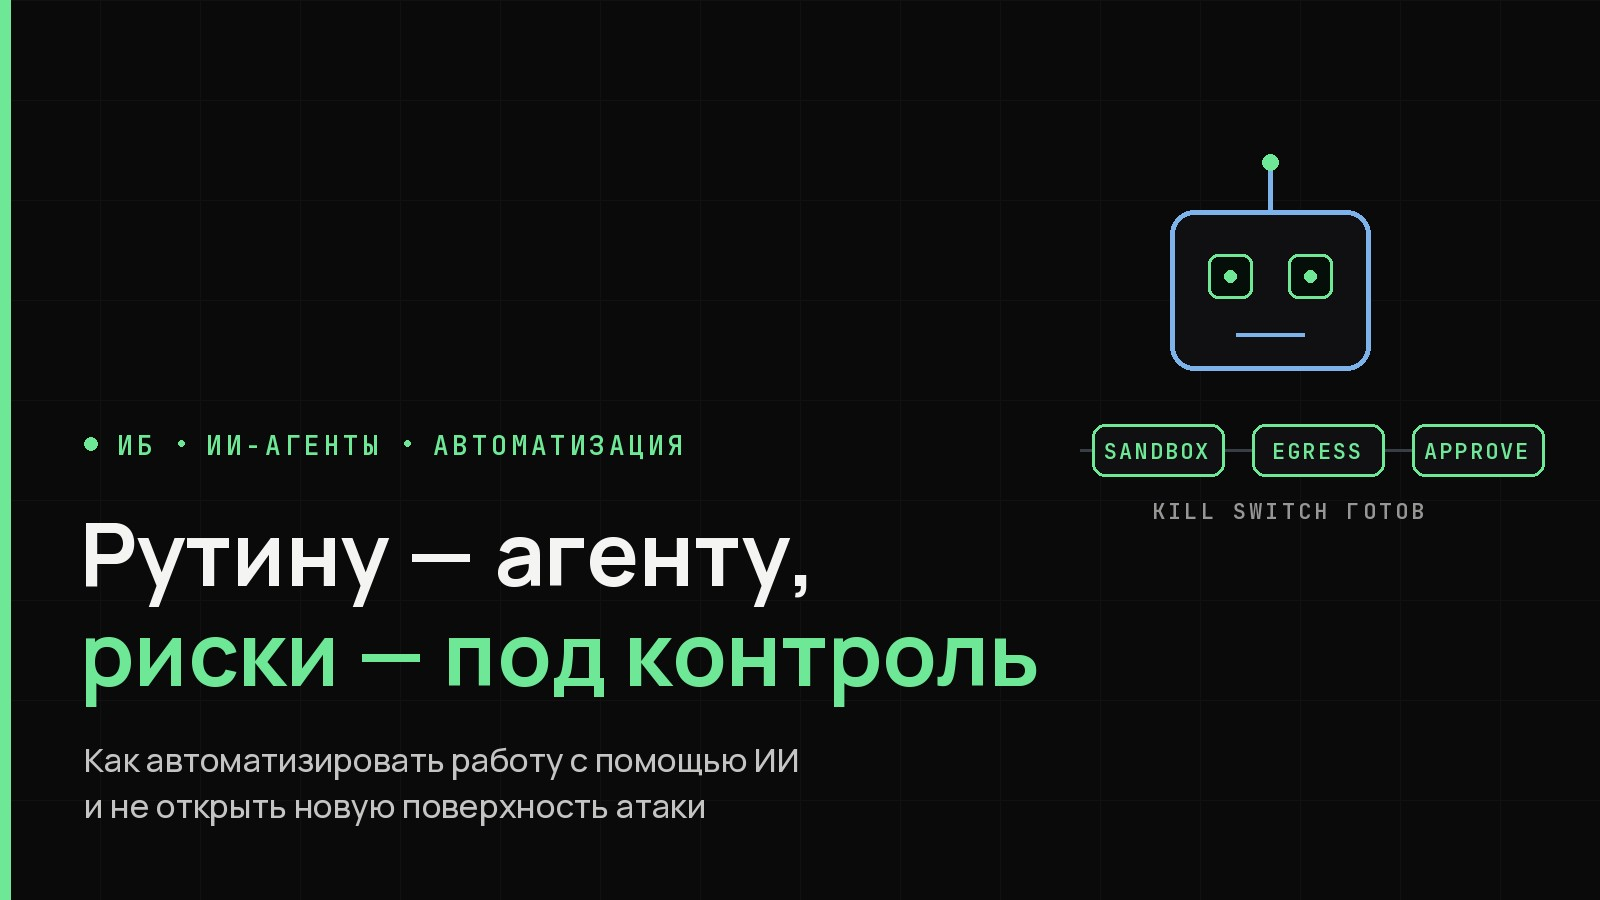
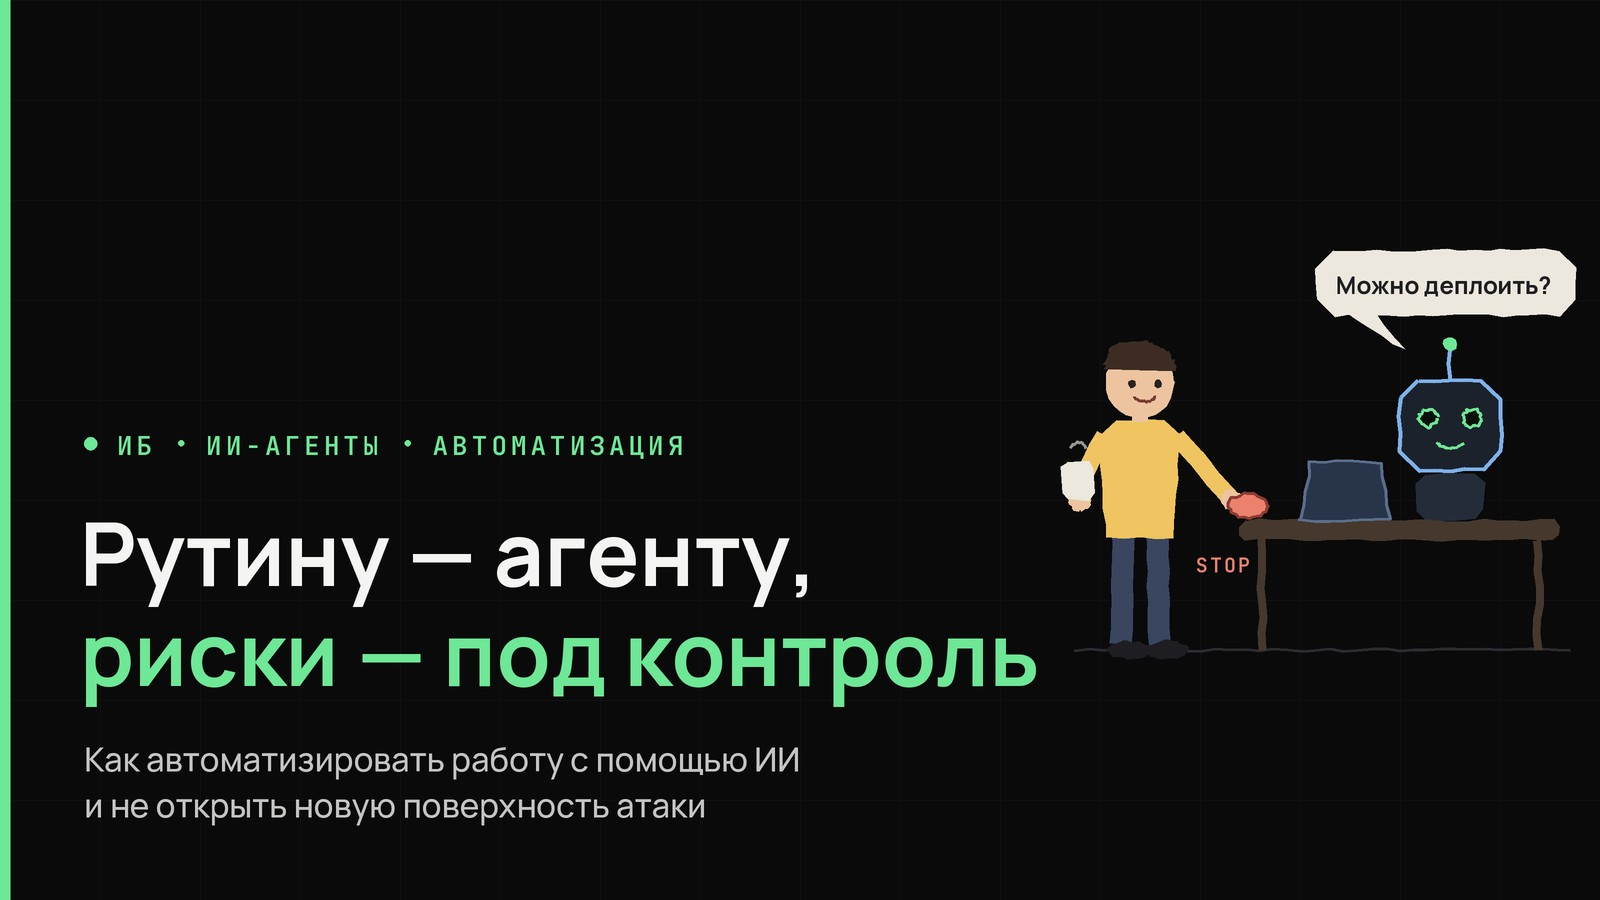
Обложки: рисованные сценки с людьми вместо схем
Семь обложек перерисованы в «ручном» стиле: неровная карандашная
линия, тёплые цвета, персонажи с лицами (тимлид и команда котов,
водитель у колонки, человек с ноутбуком дома, банк и финтех у
щита API, человек и робот у кнопки STOP, читатель отчёта с лупой).
Типографика и фирменные цвета прежние. Генератор лежит в
scripts/make_covers.py и сам готовит TTF из static/fonts.

diff --git a/scripts/make_covers.py b/scripts/make_covers.py
@@ -1,0 +1,390 @@
+#!/usr/bin/env python3
+"""Обложки с рисованными от руки сценками и людьми. Рендер в 2x с даунскейлом."""
+import os, re, math, random, tempfile
+from PIL import Image, ImageDraw, ImageFont
+
+ROOT = os.path.dirname(os.path.dirname(os.path.abspath(__file__)))
+OUT = os.path.join(ROOT, "assets", "images")
+SC = os.path.join(tempfile.gettempdir(), "starodubov-cover-fonts")   # кэш TTF
+S = 2                                   # суперсэмплинг
+
+def prepare_fonts():
+    """Шрифты сайта лежат в woff2; Pillow нужен TTF — конвертируем один раз (pip: fonttools brotli)."""
+    from fontTools.ttLib import TTFont
+    from fontTools.varLib.instancer import instantiateVariableFont
+    os.makedirs(SC, exist_ok=True)
+    src = os.path.join(ROOT, "static", "fonts")
+    for name, (f, w) in {
+        "manrope700cyr": ("manrope-cyrillic-wght-normal.woff2", 700),
+        "manrope700lat": ("manrope-latin-wght-normal.woff2", 700),
+        "manrope500cyr": ("manrope-cyrillic-wght-normal.woff2", 500),
+        "manrope500lat": ("manrope-latin-wght-normal.woff2", 500),
+        "mono600cyr": ("jetbrains-mono-cyrillic-wght-normal.woff2", 600),
+        "mono600lat": ("jetbrains-mono-latin-wght-normal.woff2", 600),
+    }.items():
+        dst = os.path.join(SC, name + ".ttf")
+        if os.path.exists(dst):
+            continue
+        font = TTFont(os.path.join(src, f)); font.flavor = None
+        if "fvar" in font:
+            instantiateVariableFont(font, {"wght": w}, inplace=True)
+        font.save(dst)
+W, H = 1600, 900
+ACC = (110, 231, 150); BLUE = (126, 178, 235); INK = (244, 244, 242)
+MUT = (196, 196, 194); DIM = (150, 150, 148); BG = (10, 10, 11); CARD = (18, 18, 21)
+AMB = (240, 196, 96); CORAL = (236, 130, 110); SKIN = (238, 196, 160); SKIN2 = (196, 140, 104)
+LILAC = (176, 150, 230); PAPER = (236, 232, 222); LINE = (44, 44, 50)
+CYR = re.compile(r'[А-Яа-яЁё]')
+rnd = random.Random(7)
+
+def F(name, size):
+    return ImageFont.truetype(os.path.join(SC, name + ".ttf"), size * S)
+
+class Canvas:
+    def __init__(self):
+        self.img = Image.new("RGB", (W * S, H * S), BG)
+        self.d = ImageDraw.Draw(self.img)
+        for gx in range(0, W, 100):
+            self.d.line([gx * S, 0, gx * S, H * S], fill=(17, 17, 19), width=S)
+        for gy in range(0, H, 100):
+            self.d.line([0, gy * S, W * S, gy * S], fill=(17, 17, 19), width=S)
+        self.d.rectangle([0, 0, 10 * S, H * S], fill=ACC)
+
+    # ---------- текст ----------
+    def text(self, x, y, s, cyr, lat, fill, tracking=0):
+        x *= S; y *= S
+        for ch in s:
+            f = cyr if CYR.match(ch) else lat
+            self.d.text((x, y), ch, font=f, fill=fill)
+            x += self.d.textlength(ch, font=f) + tracking * S
+        return x / S
+
+    def layout(self, badge, t1, t2, s1, s2, head=92):
+        hc, hl = F("manrope700cyr", head), F("manrope700lat", head)
+        sc, sl = F("manrope500cyr", 33), F("manrope500lat", 33)
+        mc, ml = F("mono600cyr", 26), F("mono600lat", 26)
+        X = 84
+        sub2 = H - 76 - 42; sub1 = sub2 - 46
+        ty2 = sub1 - 36 - (head + 20); ty1 = ty2 - (head + 12); by = ty1 - 64
+        self.d.ellipse([X * S, (by + 9) * S, (X + 13) * S, (by + 22) * S], fill=ACC)
+        bx = X + 33
+        for i, part in enumerate(badge):
+            if i:
+                bx += 22
+                self.d.ellipse([bx * S, (by + 12) * S, (bx + 6) * S, (by + 18) * S], fill=ACC)
+                bx += 28
+            bx = self.text(bx, by, part, mc, ml, ACC, tracking=4)
+        self.text(X - 4, ty1, t1, hc, hl, INK)
+        self.text(X - 4, ty2, t2, hc, hl, ACC)
+        self.text(X, sub1, s1, sc, sl, MUT)
+        self.text(X, sub2, s2, sc, sl, MUT)
+
+    # ---------- «карандаш» ----------
+    def _wob(self, pts, amp=1.6, step=14):
+        out = []
+        for (x0, y0), (x1, y1) in zip(pts, pts[1:]):
+            n = max(int(math.hypot(x1 - x0, y1 - y0) // step), 1)
+            for i in range(n):
+                t = i / n
+                out.append(((x0 + (x1 - x0) * t + rnd.uniform(-amp, amp)) * S,
+                            (y0 + (y1 - y0) * t + rnd.uniform(-amp, amp)) * S))
+        out.append((pts[-1][0] * S, pts[-1][1] * S))
+        return out
+
+    def line(self, pts, fill=INK, width=4, amp=1.6):
+        self.d.line(self._wob(pts, amp), fill=fill, width=width * S, joint="curve")
+
+    def poly(self, pts, fill, outline=None, width=4, amp=1.8):
+        p = self._wob(pts + [pts[0]], amp)
+        self.d.polygon(p, fill=fill)
+        if outline:
+            self.d.line(p, fill=outline, width=width * S, joint="curve")
+
+    def blob(self, cx, cy, rx, ry, fill, outline=None, width=4, amp=1.5, n=28, a0=0, a1=360):
+        pts = []
+        for i in range(n + 1):
+            a = math.radians(a0 + (a1 - a0) * i / n)
+            pts.append((cx + rx * math.cos(a) + rnd.uniform(-amp, amp),
+                        cy + ry * math.sin(a) + rnd.uniform(-amp, amp)))
+        p = [(x * S, y * S) for x, y in pts]
+        if fill:
+            self.d.polygon(p, fill=fill)
+        if outline:
+            self.d.line(p, fill=outline, width=width * S, joint="curve")
+
+    def arc(self, cx, cy, rx, ry, a0, a1, fill=INK, width=4, n=16):
+        pts = [(cx + rx * math.cos(math.radians(a0 + (a1 - a0) * i / n)),
+                cy + ry * math.sin(math.radians(a0 + (a1 - a0) * i / n))) for i in range(n + 1)]
+        self.line(pts, fill, width, amp=0.8)
+
+    def rrect(self, x0, y0, x1, y1, fill, outline=None, width=4, r=14):
+        pts = [(x0 + r, y0), (x1 - r, y0), (x1, y0 + r), (x1, y1 - r),
+               (x1 - r, y1), (x0 + r, y1), (x0, y1 - r), (x0, y0 + r)]
+        self.poly(pts, fill, outline, width)
+
+    def arrow(self, x0, y0, x1, y1, fill=ACC, width=5, dashed=False):
+        if dashed:
+            L = math.hypot(x1 - x0, y1 - y0); n = max(int(L // 30), 1)
+            for i in range(n):
+                t0, t1 = i / n, (i + 0.55) / n
+                self.line([(x0 + (x1 - x0) * t0, y0 + (y1 - y0) * t0),
+                           (x0 + (x1 - x0) * t1, y0 + (y1 - y0) * t1)], fill, width)
+        else:
+            self.line([(x0, y0), (x1, y1)], fill, width)
+        a = math.atan2(y1 - y0, x1 - x0)
+        for s in (0.5, -0.5):
+            self.line([(x1, y1), (x1 - 22 * math.cos(a - s), y1 - 22 * math.sin(a - s))], fill, width)
+
+    def label(self, x, y, s, fill=DIM, size=22):
+        self.text(x, y, s, F("mono600cyr", size), F("mono600lat", size), fill, tracking=2)
+
+    # ---------- человек ----------
+    def person(self, x, y, shirt=AMB, skin=SKIN, hair=(60, 44, 36), lhand=None, rhand=None,
+               sit=False, look=0, hairstyle="short", k=1.0, smile=True):
+        """x, y — точка под ногами (или под сиденьем при sit). Возвращает координаты головы."""
+        hip_y = y - 118 * k
+        sh_y = hip_y - 104 * k
+        head_y = sh_y - 46 * k
+        pants = (58, 70, 96)
+        # ноги
+        if sit:
+            for sx in (-16, 16):
+                self.line([(x + sx * k, hip_y), (x + (sx + 62) * k, hip_y + 6 * k),
+                           (x + (sx + 66) * k, y)], pants, int(20 * k), amp=1.0)
+                self.blob(x + (sx + 78) * k, y, 20 * k, 9 * k, (30, 30, 34))
+        else:
+            for sx in (-17, 17):
+                self.line([(x + sx * k, hip_y - 4 * k), (x + sx * 1.15 * k, y - 6 * k)], pants, int(22 * k), amp=1.0)
+                self.blob(x + (sx * 1.15 + 8) * k, y, 21 * k, 9 * k, (30, 30, 34))
+        # туловище (свитер)
+        self.poly([(x - 40 * k, sh_y + 8 * k), (x - 24 * k, sh_y - 8 * k), (x + 24 * k, sh_y - 8 * k),
+                   (x + 40 * k, sh_y + 8 * k), (x + 34 * k, hip_y + 6 * k), (x - 34 * k, hip_y + 6 * k)],
+                  shirt, amp=1.4)
+        # руки
+        lh = lhand or (x - 58 * k, hip_y - 6 * k)
+        rh = rhand or (x + 58 * k, hip_y - 6 * k)
+        for (sx, hand) in ((-36, lh), (36, rh)):
+            ex = (x + sx * k + hand[0]) / 2 + (sx / 36) * 10 * k
+            ey = (sh_y + hand[1]) / 2 + 16 * k
+            self.line([(x + sx * k, sh_y + 8 * k), (ex, ey), hand], shirt, int(18 * k), amp=1.0)
+            self.blob(hand[0], hand[1], 11 * k, 11 * k, skin)
+        # шея и голова
+        self.line([(x, sh_y - 6 * k), (x, head_y + 26 * k)], skin, int(16 * k), amp=0.5)
+        self.blob(x, head_y, 34 * k, 37 * k, skin, amp=1.2)
+        # волосы
+        if hairstyle == "short":
+            self.blob(x, head_y - 12 * k, 36 * k, 28 * k, hair, a0=180, a1=360, amp=2.0)
+            self.blob(x - 4 * k, head_y - 30 * k, 26 * k, 12 * k, hair, amp=2.0)
+        elif hairstyle == "long":
+            self.blob(x, head_y - 10 * k, 38 * k, 30 * k, hair, a0=170, a1=370, amp=2.0)
+            self.poly([(x - 38 * k, head_y - 8 * k), (x - 30 * k, head_y + 52 * k), (x - 18 * k, head_y + 30 * k),
+                       (x - 22 * k, head_y - 6 * k)], hair)
+            self.poly([(x + 38 * k, head_y - 8 * k), (x + 30 * k, head_y + 52 * k), (x + 18 * k, head_y + 30 * k),
+                       (x + 22 * k, head_y - 6 * k)], hair)
+        elif hairstyle == "bun":
+            self.blob(x, head_y - 12 * k, 36 * k, 28 * k, hair, a0=180, a1=360, amp=2.0)
+            self.blob(x + 6 * k, head_y - 46 * k, 15 * k, 14 * k, hair, amp=1.6)
+        # лицо
+        ex = look * 5 * k
+        for sx in (-13, 13):
+            self.blob(x + sx * k + ex, head_y + 2 * k, 3.6 * k, 4.2 * k, (40, 34, 32), amp=0.3, n=10)
+        if smile:
+            self.arc(x + ex, head_y + 12 * k, 11 * k, 8 * k, 20, 160, (120, 60, 50), max(int(3 * k), 2))
+        else:
+            self.line([(x - 8 * k + ex, head_y + 19 * k), (x + 8 * k + ex, head_y + 17 * k)], (120, 60, 50), max(int(3 * k), 2), amp=0.4)
+        return x, head_y
+
+    def bubble(self, x, y, w, h, text, tail=(0, 0), fill=PAPER, col=(30, 30, 34)):
+        fc, fl = F("manrope700cyr", 24), F("manrope700lat", 24)
+        tw = sum(self.d.textlength(ch, font=(fc if CYR.match(ch) else fl)) for ch in text) / S
+        w = max(w, tw + 44)                      # облачко всегда шире текста
+        if x + w > W - 24:
+            x = W - 24 - w
+        self.rrect(x, y, x + w, y + h, fill, r=18)
+        self.poly([(x + 30, y + h - 4), (x + 60, y + h - 4), (x + 30 + tail[0], y + h + 26 + tail[1])], fill)
+        self.text(x + 20, y + (h - 30) / 2, text, F("manrope700cyr", 24), F("manrope700lat", 24), col)
+
+    def cat(self, x, y, col=PAPER, k=1.0):
+        self.blob(x, y, 30 * k, 26 * k, col, amp=1.2)
+        self.poly([(x - 26 * k, y - 14 * k), (x - 20 * k, y - 42 * k), (x - 6 * k, y - 22 * k)], col)
+        self.poly([(x + 26 * k, y - 14 * k), (x + 20 * k, y - 42 * k), (x + 6 * k, y - 22 * k)], col)
+        for sx in (-10, 10):
+            self.arc(x + sx * k, y - 2 * k, 5 * k, 4 * k, 200, 340, (40, 34, 32), 3)
+        self.arc(x, y + 8 * k, 6 * k, 4 * k, 20, 160, (40, 34, 32), 3)
+
+    def save(self, name):
+        out = self.img.resize((W, H), Image.LANCZOS)
+        out.save(os.path.join(OUT, name), quality=90)
+        print("saved", name)
+
+
+# ================= СЦЕНЫ =================
+
+def cover_mama():
+    c = Canvas()
+    c.layout(["КНИГА", "МАРИНА ПЕРЕСКОКОВА"], "Мама,", "я тимлид!",
+             "Практические советы по руководству IT-командой",
+             "и мой взгляд после госслужбы и Банка России")
+    # пол
+    c.line([(1040, 640), (1570, 640)], LINE, 3)
+    # тимлид с чашкой машет команде
+    c.person(1160, 640, shirt=AMB, hairstyle="bun", hair=(90, 52, 40), lhand=(1092, 470), rhand=(1222, 520), look=1)
+    c.rrect(1210, 500, 1240, 534, PAPER, r=6)                     # чашка
+    c.bubble(1010, 250, 250, 70, "Ну что, стендап?", tail=(70, 10))
+    # команда котов за ноутбуками
+    for i, (cx, col) in enumerate(((1330, PAPER), (1430, BLUE), (1522, PAPER))):
+        c.cat(cx, 548 - (i % 2) * 14, col, k=0.95)
+        c.rrect(cx - 40, 590, cx + 40, 640, (40, 52, 74), outline=(80, 100, 130), width=3, r=8)
+        c.blob(cx, 615, 7, 7, ACC, amp=0.4, n=10)
+    c.save("mama-ya-timlid-cover.jpg")
+
+
+def cover_benzin():
+    c = Canvas()
+    c.layout(["АВТО", "ТОПЛИВО", "2026"], "Бензин Евро-3", "вернулся",
+             "Что будет с нашими моторами", "и кому стоит напрячься уже сейчас")
+    c.line([(1040, 650), (1570, 650)], LINE, 3)
+    # колонка
+    c.rrect(1360, 300, 1530, 650, (28, 34, 44), outline=BLUE, width=4, r=18)
+    c.rrect(1384, 328, 1506, 410, (8, 16, 11), outline=(60, 70, 80), width=3, r=10)
+    c.label(1398, 340, "АИ-95", ACC, 30)
+    c.label(1398, 378, "К5? К3?", AMB, 20)
+    for i in range(3):
+        c.rrect(1384 + i * 44, 432, 1418 + i * 44, 466, (36, 40, 48), r=8)
+    # шланг к руке человека
+    c.line([(1360, 470), (1320, 500), (1300, 470)], (70, 80, 96), 7, amp=2.2)
+    # человек с пистолетом, озадачен
+    hx, hy = c.person(1200, 650, shirt=CORAL, hairstyle="short", lhand=(1140, 548), rhand=(1296, 466), look=1, smile=False)
+    c.rrect(1288, 446, 1330, 470, (70, 80, 96), r=6)              # пистолет
+    c.text(1236, hy - 118, "?", F("manrope700cyr", 64), F("manrope700lat", 64), AMB)
+    c.text(1276, hy - 92, "?", F("manrope700cyr", 40), F("manrope700lat", 40), AMB)
+    # капля с «S»
+    c.blob(1108, 360, 26, 30, (70, 60, 30), outline=AMB, width=3)
+    c.text(1098, 340, "S", F("manrope700cyr", 32), F("manrope700lat", 32), AMB)
+    c.label(1064, 402, "сера ×15", AMB, 20)
+    c.save("benzin-evro3-cover.jpg")
+
+
+def cover_vpn():
+    c = Canvas()
+    c.layout(["ГАЙД", "СЕТЬ", "SELF-HOSTED"], "Свой VPN", "на AmneziaWG",
+             "Сервер за пятнадцать минут без консоли",
+             "и выборочная маршрутизация на Keenetic")
+    c.line([(1040, 660), (1570, 660)], LINE, 3)
+    # домик-контур
+    c.line([(1050, 400), (1200, 270), (1350, 400)], (70, 80, 96), 5, amp=2.0)
+    c.line([(1076, 388), (1076, 660)], (70, 80, 96), 5); c.line([(1324, 388), (1324, 660)], (70, 80, 96), 5)
+    # диван и человек с ноутбуком
+    c.rrect(1096, 540, 1300, 640, (52, 44, 70), r=26)
+    c.rrect(1088, 500, 1130, 640, (62, 52, 84), r=18)
+    c.person(1176, 650, shirt=ACC, hairstyle="long", hair=(70, 40, 30), sit=True,
+             lhand=(1196, 520), rhand=(1250, 524), look=1)
+    c.poly([(1196, 530), (1276, 530), (1268, 480), (1204, 480)], (40, 52, 74), outline=(90, 110, 140), width=3)
+    # роутер на полке
+    c.rrect(1226, 410, 1306, 440, (28, 34, 44), outline=BLUE, width=3, r=8)
+    c.line([(1240, 410), (1236, 376)], BLUE, 3); c.line([(1292, 410), (1296, 376)], BLUE, 3)
+    # туннель к серверу-облаку
+    c.arrow(1330, 424, 1440, 330, ACC, 5)
+    c.blob(1490, 290, 62, 40, (24, 40, 30), outline=ACC, width=4)
+    c.label(1462, 278, "VPS", ACC, 24)
+    c.rrect(1370, 360, 1398, 384, (20, 30, 24), outline=ACC, width=3, r=5)   # замочек
+    c.arc(1384, 360, 9, 12, 180, 360, ACC, 3)
+    c.save("vpn-awg-keenetic-cover.jpg")
+
+
+def cover_split():
+    c = Canvas()
+    c.layout(["ГАЙД", "AMNEZIAVPN", "ЧАСТЬ 2"], "Раздельное", "туннелирование",
+             "Список сайтов уходит в туннель, всё остальное",
+             "идёт напрямую. Настройка в самом приложении")
+    c.line([(1040, 650), (1570, 650)], LINE, 3)
+    # человек на ходу с телефоном
+    c.person(1150, 650, shirt=BLUE, hairstyle="short", hair=(40, 36, 40), lhand=(1092, 540), rhand=(1216, 470), look=1)
+    c.rrect(1204, 420, 1240, 486, (28, 34, 44), outline=PAPER, width=3, r=8)
+    # две дороги
+    c.arrow(1256, 440, 1430, 330, ACC, 6)
+    c.arrow(1256, 470, 1430, 560, BLUE, 6, dashed=True)
+    c.blob(1490, 300, 66, 42, (24, 40, 30), outline=ACC, width=4)
+    c.label(1456, 288, "VPN", ACC, 24)
+    c.rrect(1322, 366, 1350, 390, (20, 30, 24), outline=ACC, width=3, r=5); c.arc(1336, 366, 9, 12, 180, 360, ACC, 3)
+    c.rrect(1434, 530, 1560, 600, (24, 30, 40), outline=BLUE, width=4, r=16)
+    c.label(1452, 552, "БАНК", BLUE, 24)
+    c.label(1296, 296, "список", ACC, 20)
+    c.label(1300, 560, "остальное", BLUE, 20)
+    c.save("amnezia-split-cover.jpg")
+
+
+def cover_openapi():
+    c = Canvas()
+    c.layout(["ИБ", "ФИНТЕХ", "СТАНДАРТЫ"], "Безопасность", "Open API",
+             "Архитектура, токены и защита от атак:",
+             "от Zero Trust и FAPI до ГОСТ и стандартов ЦБ")
+    c.line([(1040, 650), (1570, 650)], LINE, 3)
+    # банкир и финтех-разработчица обмениваются ключом через «шлюз»
+    c.person(1120, 650, shirt=(70, 90, 140), hairstyle="short", hair=(50, 50, 56), rhand=(1216, 488), lhand=(1064, 540), look=1)
+    c.person(1490, 650, shirt=CORAL, hairstyle="long", hair=(96, 56, 36), lhand=(1394, 488), rhand=(1546, 540), look=-1)
+    # щит-шлюз между ними
+    c.poly([(1250, 380), (1360, 380), (1360, 500), (1305, 570), (1250, 500)], (20, 34, 26), outline=ACC, width=5)
+    c.line([(1280, 470), (1300, 496), (1336, 440)], ACC, 7, amp=1.0)
+    # ключ-токен
+    c.blob(1222, 470, 12, 12, None, outline=AMB, width=4); c.line([(1234, 470), (1262, 470)], AMB, 4)
+    c.line([(1256, 470), (1256, 482)], AMB, 4)
+    c.label(1256, 330, "{ API }", BLUE, 30)
+    c.label(1090, 690, "БАНК", DIM, 20); c.label(1446, 690, "ФИНТЕХ", DIM, 20)
+    c.save("open-api-cover.jpg")
+
+
+def cover_agents():
+    c = Canvas()
+    c.layout(["ИБ", "ИИ-АГЕНТЫ", "АВТОМАТИЗАЦИЯ"], "Рутину — агенту,", "риски — под контроль",
+             "Как автоматизировать работу с помощью ИИ",
+             "и не открыть новую поверхность атаки", head=88)
+    c.line([(1076, 650), (1570, 650)], LINE, 3)
+    # стол
+    c.rrect(1240, 520, 1560, 540, (70, 56, 44), r=6)
+    c.line([(1262, 540), (1262, 650)], (70, 56, 44), 8); c.line([(1538, 540), (1538, 650)], (70, 56, 44), 8)
+    # робот за ноутбуком
+    c.rrect(1400, 380, 1500, 470, (28, 34, 44), outline=BLUE, width=4, r=18)
+    c.line([(1450, 380), (1450, 350)], BLUE, 4); c.blob(1450, 344, 7, 7, ACC, amp=0.4, n=10)
+    for sx in (-22, 22):
+        c.blob(1450 + sx, 418, 9, 9, (8, 16, 11), outline=ACC, width=3)
+    c.arc(1450, 440, 14, 8, 20, 160, ACC, 3)
+    c.rrect(1416, 474, 1484, 520, (36, 44, 58), r=10)
+    c.poly([(1300, 520), (1390, 520), (1380, 462), (1310, 462)], (40, 52, 74), outline=(90, 110, 140), width=3)
+    # человек с чашкой, рука на кнопке
+    c.person(1140, 650, shirt=AMB, hairstyle="short", hair=(60, 44, 36), lhand=(1080, 500), rhand=(1232, 500), look=1)
+    c.rrect(1062, 462, 1094, 500, PAPER, r=6)
+    c.arc(1078, 452, 8, 10, 200, 340, DIM, 3)
+    c.blob(1248, 506, 20, 12, CORAL, outline=(140, 60, 50), width=3)
+    c.label(1196, 552, "STOP", CORAL, 20)
+    c.bubble(1330, 250, 210, 66, "Можно деплоить?", tail=(60, 8))
+    c.save("ai-agents-cover.jpg")
+
+
+def cover_risk():
+    c = Canvas()
+    c.layout(["ИИ", "РИСКИ", "РАЗБОР ОТЧЁТА"], "Отчёт о рисках", "Anthropic",
+             "Как ИИ-лаборатория проверяет саму себя",
+             "и чему у неё поучиться безопасникам", head=88)
+    c.line([(1040, 650), (1570, 650)], LINE, 3)
+    # большой лист отчёта
+    c.poly([(1290, 250), (1540, 262), (1528, 610), (1278, 598)], PAPER, amp=1.2)
+    c.text(1312, 282, "RISK REPORT", F("mono600cyr", 24), F("mono600lat", 24), (30, 30, 34), tracking=2)
+    for i, wl in enumerate((190, 170, 196, 140, 182, 120)):
+        c.line([(1312, 336 + i * 30), (1312 + wl, 338 + i * 30)], (150, 146, 136), 4, amp=0.8)
+    # шкала риска на листе
+    for i, col in enumerate(((190, 200, 190), (60, 170, 100), (200, 190, 170), (200, 180, 176))):
+        c.rrect(1312 + i * 52, 534, 1356 + i * 52, 558, col, r=8)
+    c.arrow(1330, 522, 1384, 522, (200, 120, 40), 4)
+    # человек с лупой
+    c.person(1140, 650, shirt=LILAC, hairstyle="short", hair=(70, 50, 40), lhand=(1078, 540), rhand=(1250, 430), look=1)
+    c.blob(1290, 400, 38, 38, (210, 230, 240), outline=(60, 60, 66), width=6)
+    c.line([(1262, 426), (1246, 442)], (60, 60, 66), 8)
+    c.text(1268, 380, "!", F("manrope700cyr", 44), F("manrope700lat", 44), CORAL)
+    c.save("anthropic-risk-report-cover.jpg")
+
+
+if __name__ == "__main__":
+    prepare_fonts()
+    for fn in (cover_mama, cover_benzin, cover_vpn, cover_split, cover_openapi, cover_agents, cover_risk):
+        fn()
